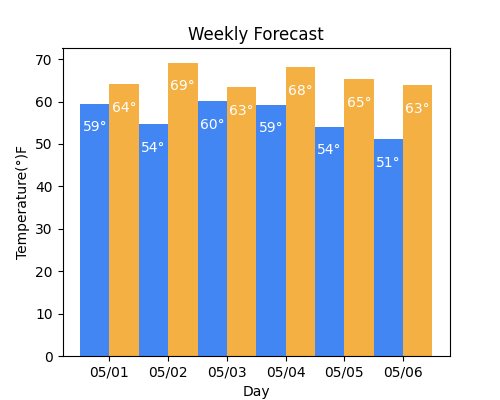
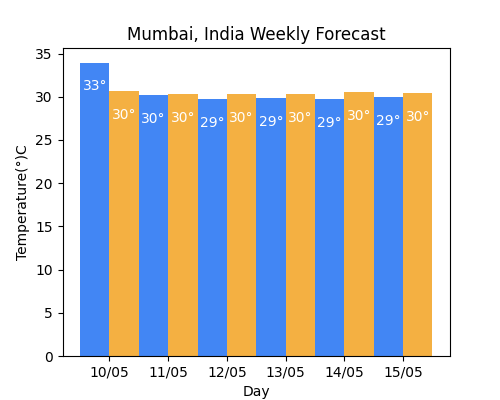
Updated label

diff --git a/chart.py b/chart.py
@@ -1,7 +1,6 @@
 from matplotlib import pyplot as plt
 from matplotlib import dates
-from tkinter import messagebox
-from pyowm_helper import get_temperature
+import pyowm_helper
 
 degree_sign= u'\N{DEGREE SIGN}'
 
@@ -10,7 +9,7 @@ def init_plot():
     plt.figure('PyOWM Weather', figsize=(5,4))
     plt.xlabel('Day')
     plt.ylabel(f'Temperature({degree_sign})C')
-    plt.title('Weekly Forecast')
+    plt.title(pyowm_helper.city+ ' Weekly Forecast')
 
 def plot_temperatures(days, temp_min, temp_max):
     #Convert datetime objects to matplotlib date objects
@@ -44,7 +43,7 @@ def write_temperatures_on_bar_chart(bar_min, bar_max):
 
 if __name__ == '__main__':
     init_plot()
-    days, temp_min, temp_max = get_temperature()
+    days, temp_min, temp_max = pyowm_helper.get_temperature()
     bar_min, bar_max = plot_temperatures(days, temp_min, temp_max)
     label_xaxis(days)
     write_temperatures_on_bar_chart(bar_min, bar_max)

diff --git a/pyowm_helper.py b/pyowm_helper.py
@@ -8,7 +8,7 @@ owm = pyowm.OWM(config.API_KEY)
 #Create a weather manager instance
 mgr = owm.weather_manager()
 
-city = 'Mumbai,India'
+city = 'Mumbai, India'
 
 def get_temperature():
     # List to store the respective values 
